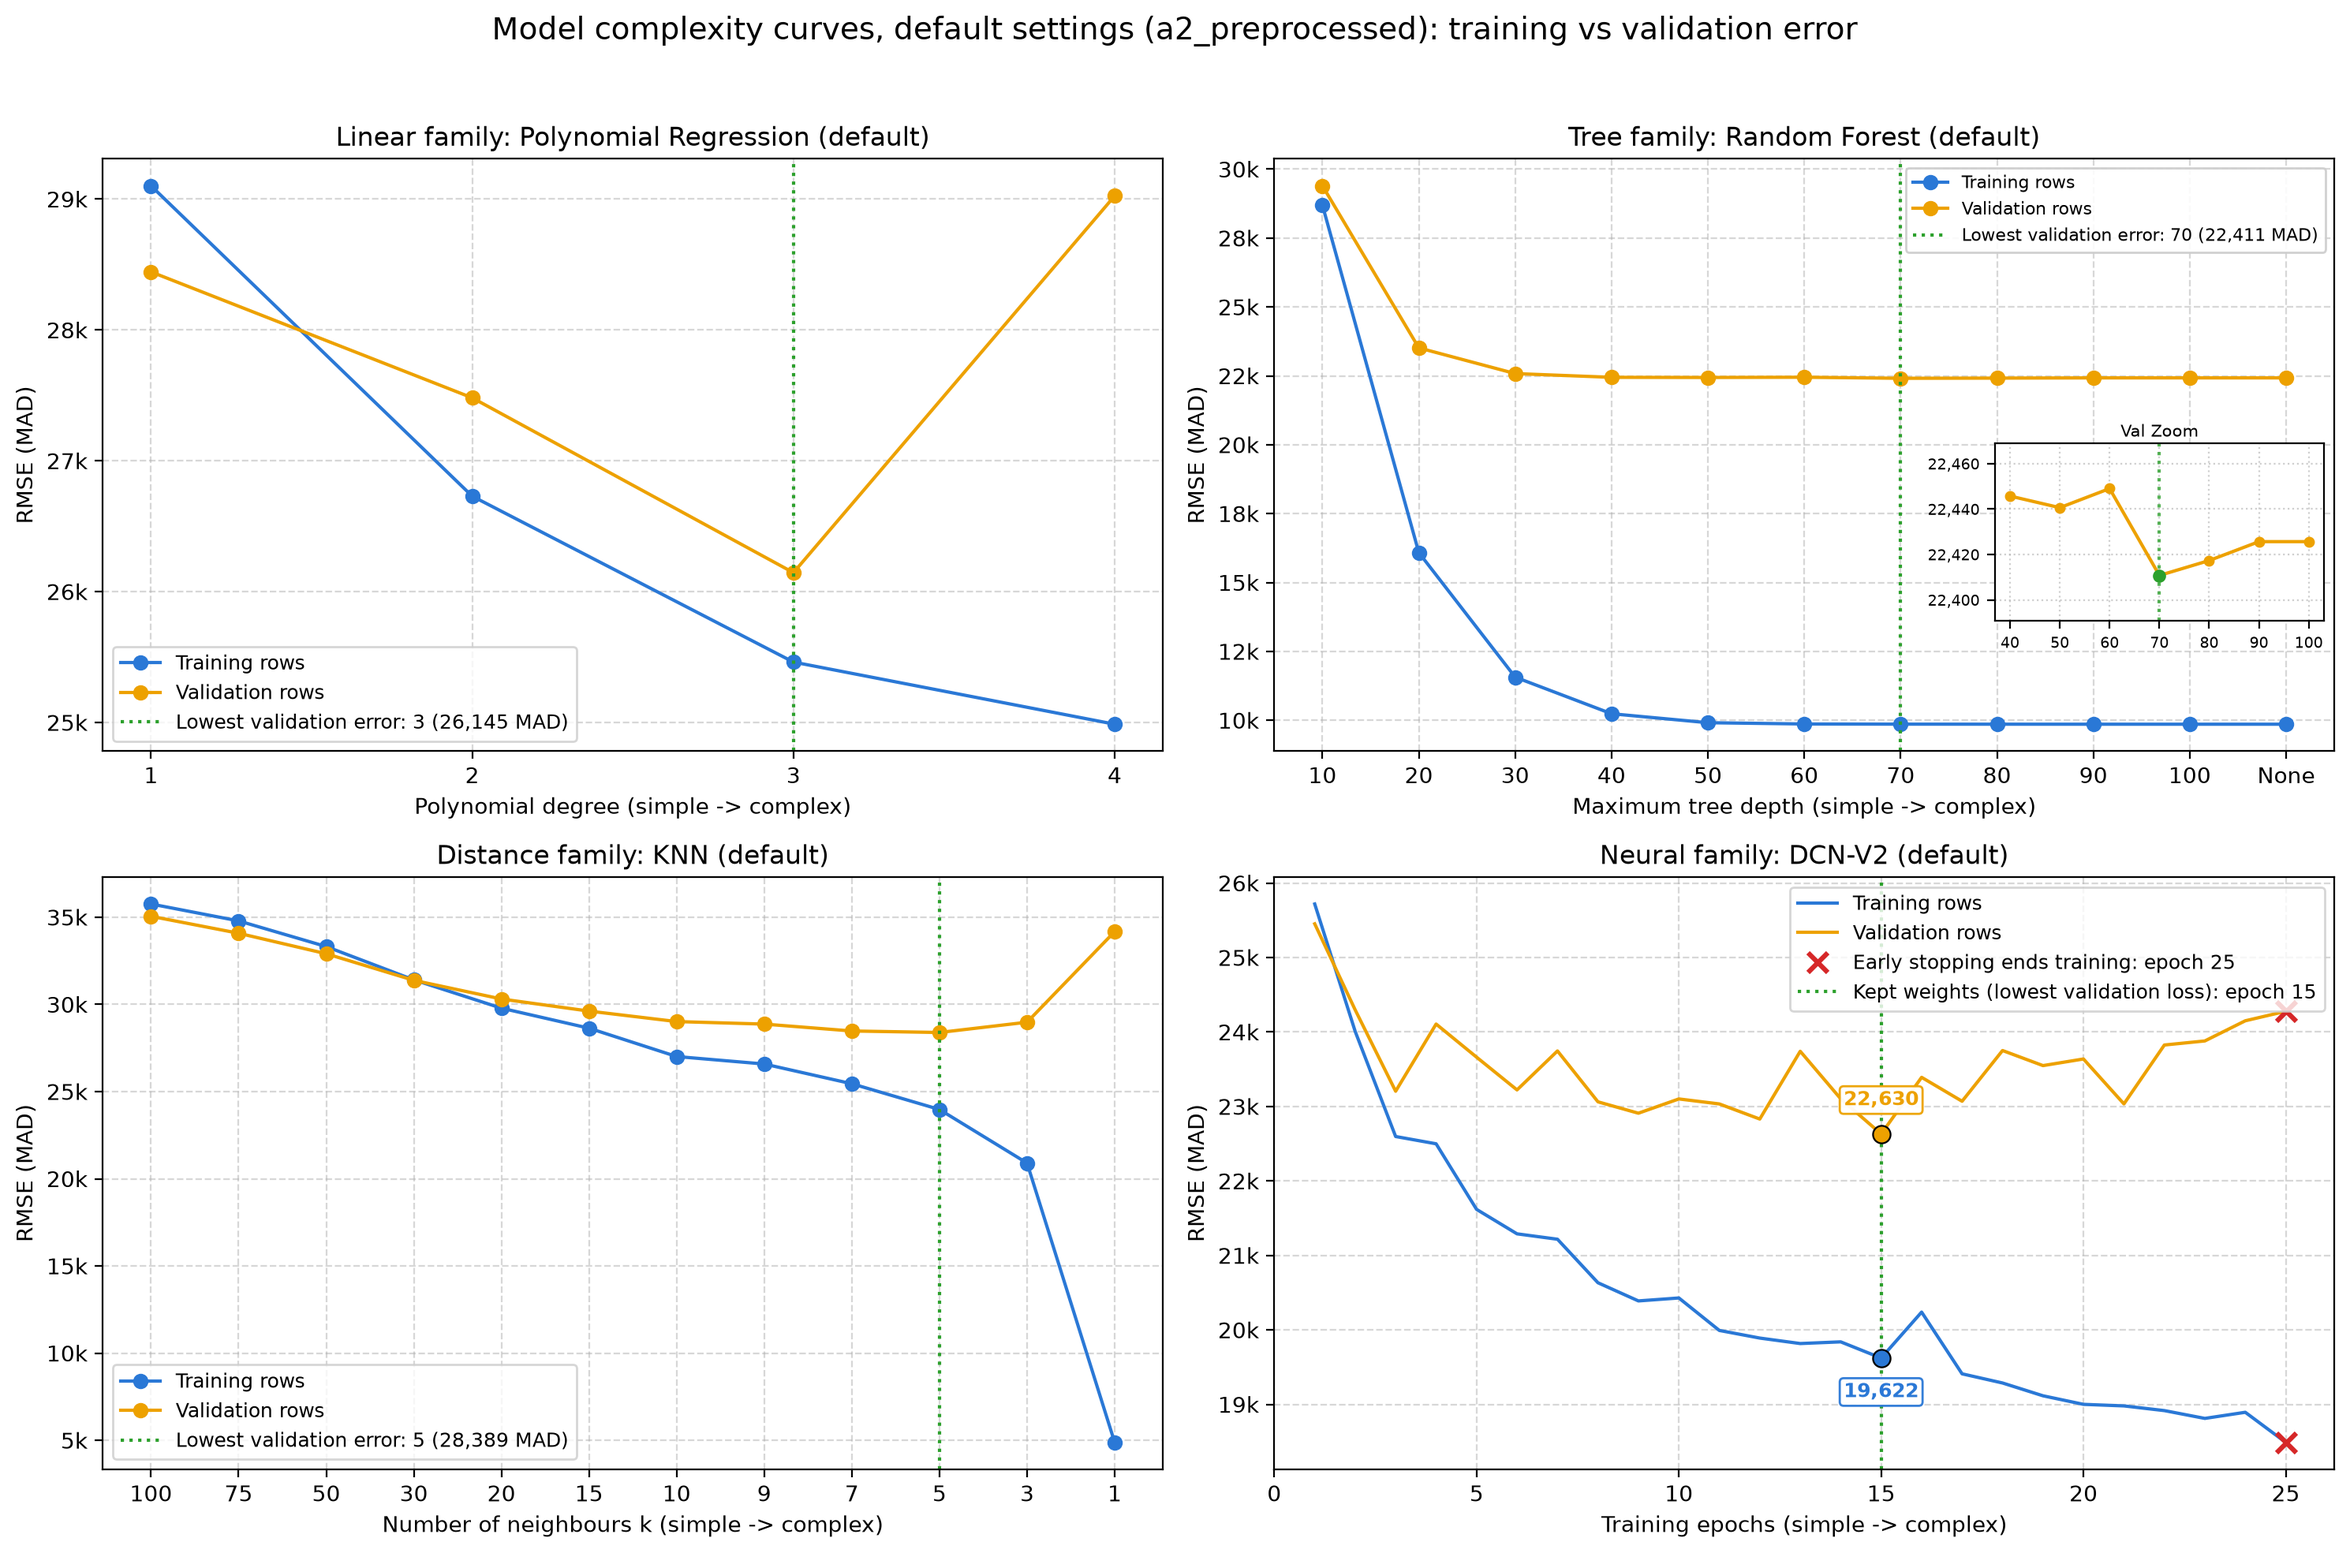
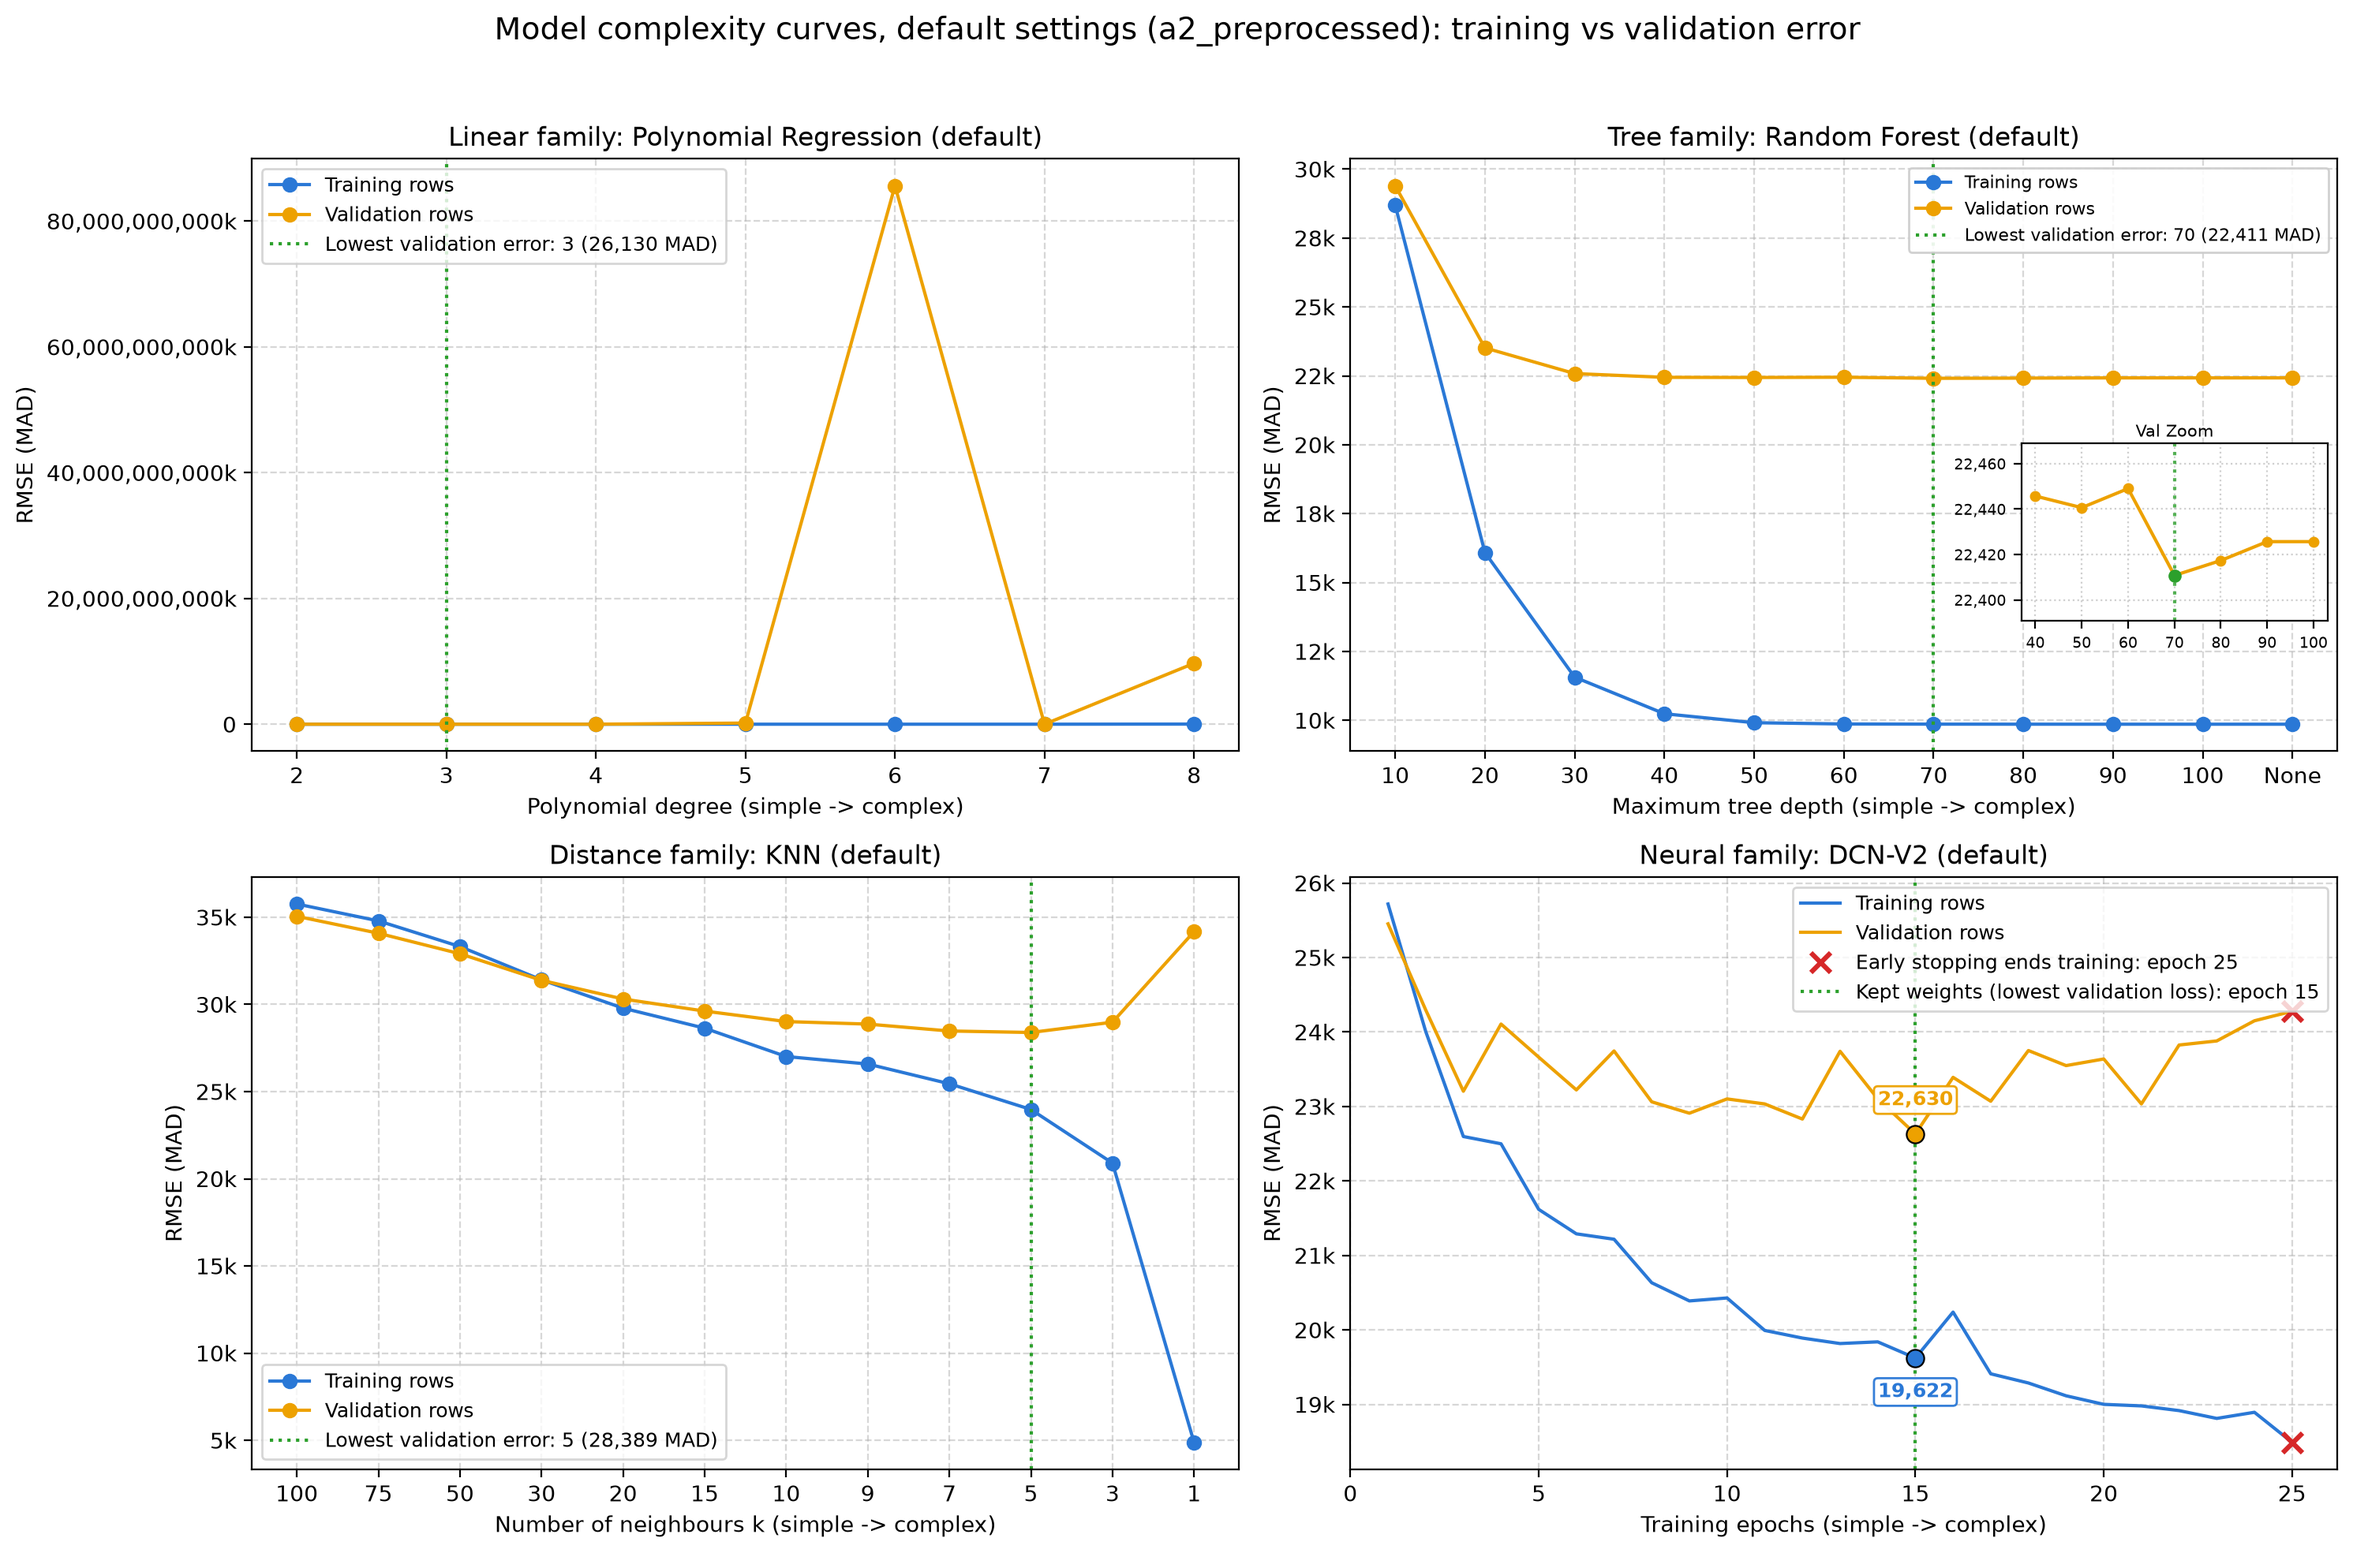
Linear model chart

diff --git a/src/analysis/complexity_comparison.py b/src/analysis/complexity_comparison.py
@@ -31,7 +31,7 @@ CURVE_METADATA = {
         "parameter": "degree",
         "xlabel": "Polynomial degree (simple -> complex)",
         "categorical": True,
-        "order": ["1", "2", "3", "4"],
+        "order": ["2", "3", "4", "5", "6", "7", "8"],
         "zoom_values": ["2", "3", "4"],
         "default_tuned": None,
         "tuned_value": 2,
@@ -209,7 +209,9 @@ def plot_comparison_panels(df_a2, df_b1):
         ax.set_ylabel("RMSE (MAD)", fontsize=9)
         ax.yaxis.set_major_formatter(THOUSANDS)
         ax.grid(True, linestyle="--", alpha=0.5)
-        if curve_key == "polynomial_degree":  # big chart = whole curve in billions; small chart = zoom on degrees 2-4
+        poly_vals = [v for v in a2_val + b1_val if not np.isnan(v)] if curve_key == "polynomial_degree" else []
+        has_spike = bool(poly_vals) and max(poly_vals) > 10 * np.median(poly_vals)  # blow-up(s) far above the typical point
+        if has_spike:  # big chart = whole curve in billions; small chart = zoom on degrees 2-4
             ax.yaxis.set_major_formatter(plt.FuncFormatter(lambda v, _: f"{v / 1e9:,.0f} bn"))
             zx = [v for v in x_vals if v in meta["zoom_values"]]
             ax_ins = ax.inset_axes([0.06, 0.1, 0.38, 0.42])

diff --git a/src/shared/complexity.py b/src/shared/complexity.py
@@ -39,7 +39,7 @@ from src.shared.core_utils import RANDOM_STATE, RESULTS_ROOT
 from src.shared.plots import THOUSANDS
 from src.shared.stages import load_data
 
-POLY_DEGREES = [1, 2, 3, 4]
+POLY_DEGREES = [2, 3, 4, 5, 6, 7, 8]
 RF_DEPTHS = [10, 20, 30, 40, 50, 60, 70, 80, 90, 100, None]  # None = fully grown; 50 = current tuned value
 KNN_K = [100, 75, 50, 30, 20, 15, 10, 9, 7, 5, 3, 1]  # 9 = current tuned value
 MAX_EPOCHS = 100
